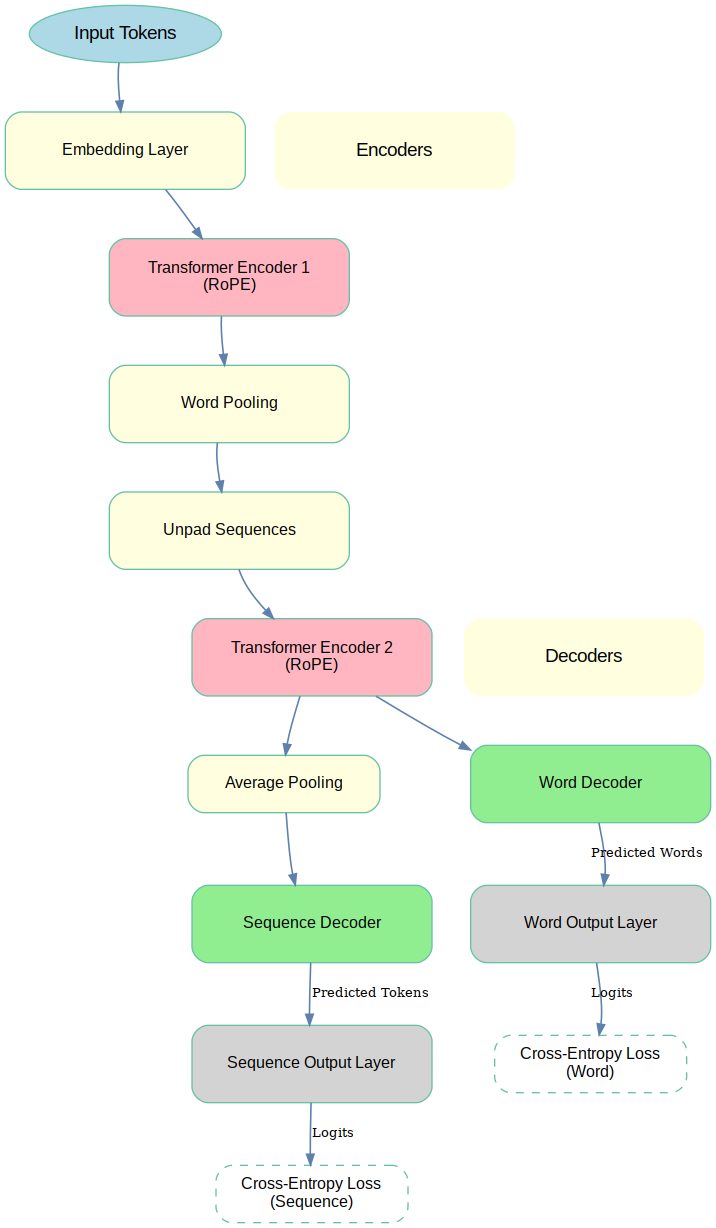
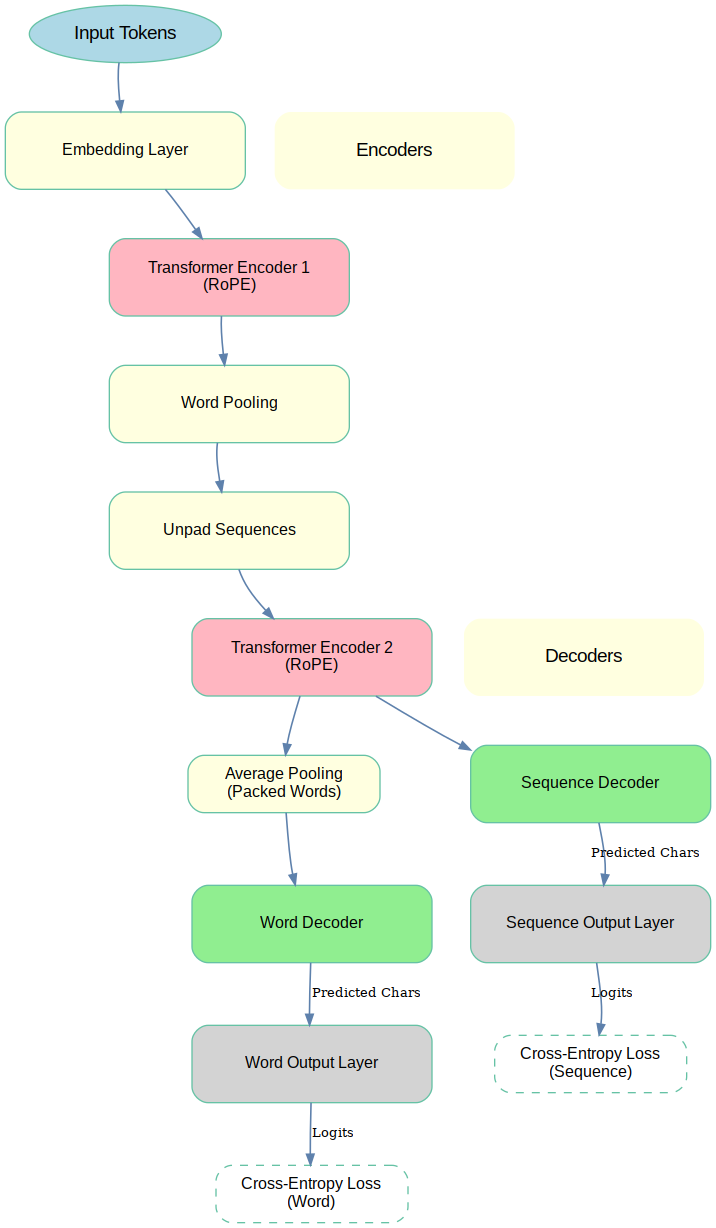
fixing diagram

diff --git a/docs/model_architecture.py b/docs/model_architecture.py
@@ -61,52 +61,42 @@ def create_optimized_model_diagram(output_path="img/model_architecture"):
     dot.edge("Unpad", "Encoder2")
 
     # Average Pooling
-    dot.node("AveragePooling", "Average Pooling", width="2.0", height="0.6")
+    dot.node(
+        "AveragePooling", "Average Pooling\n(Packed Words)", width="2.0", height="0.6"
+    )
     dot.edge("Encoder2", "AveragePooling")
 
     # Decoders
+    dot.node("WordDecoder", "Word Decoder", fillcolor="lightgreen", fontsize="12")
+    dot.edge("AveragePooling", "WordDecoder")
+
     dot.node(
         "SequenceDecoder", "Sequence Decoder", fillcolor="lightgreen", fontsize="12"
     )
-    dot.edge("AveragePooling", "SequenceDecoder")
-
-    dot.node("WordDecoder", "Word Decoder", fillcolor="lightgreen", fontsize="12")
-    dot.edge("Encoder2", "WordDecoder")
+    dot.edge("Encoder2", "SequenceDecoder")
 
     # Output Layers
-    dot.node("OutputSeq", "Sequence Output Layer", fillcolor="lightgray", fontsize="12")
+    dot.node("OutputWord", "Word Output Layer", fillcolor="lightgray", fontsize="12")
     dot.edge(
-        "SequenceDecoder",
-        "OutputSeq",
-        label="Predicted Tokens",
+        "WordDecoder",
+        "OutputWord",
+        label="Predicted Chars",
         fontsize="10",
         labeldistance="1.5",
         labelangle="30",
     )
 
-    dot.node("OutputWord", "Word Output Layer", fillcolor="lightgray", fontsize="12")
+    dot.node("OutputSeq", "Sequence Output Layer", fillcolor="lightgray", fontsize="12")
     dot.edge(
-        "WordDecoder",
-        "OutputWord",
-        label="Predicted Words",
+        "SequenceDecoder",
+        "OutputSeq",
+        label="Predicted Chars",
         fontsize="10",
         labeldistance="1.5",
         labelangle="-30",
     )
 
     # Cross-Entropy Loss
-    dot.node(
-        "SeqLoss",
-        "Cross-Entropy Loss\n(Sequence)",
-        shape="box",
-        style="dashed, rounded",
-        fillcolor="white",
-        fontsize="12",
-        width="2.0",
-        height="0.6",
-    )
-    dot.edge("OutputSeq", "SeqLoss", label="Logits", fontsize="10")
-
     dot.node(
         "WordLoss",
         "Cross-Entropy Loss\n(Word)",
@@ -118,6 +108,18 @@ def create_optimized_model_diagram(output_path="img/model_architecture"):
         height="0.6",
     )
     dot.edge("OutputWord", "WordLoss", label="Logits", fontsize="10")
+
+    dot.node(
+        "SeqLoss",
+        "Cross-Entropy Loss\n(Sequence)",
+        shape="box",
+        style="dashed, rounded",
+        fillcolor="white",
+        fontsize="12",
+        width="2.0",
+        height="0.6",
+    )
+    dot.edge("OutputSeq", "SeqLoss", label="Logits", fontsize="10")
 
     # Group Labels
     dot.node("EncodersLabel", "Encoders", shape="plaintext", fontsize="14")
